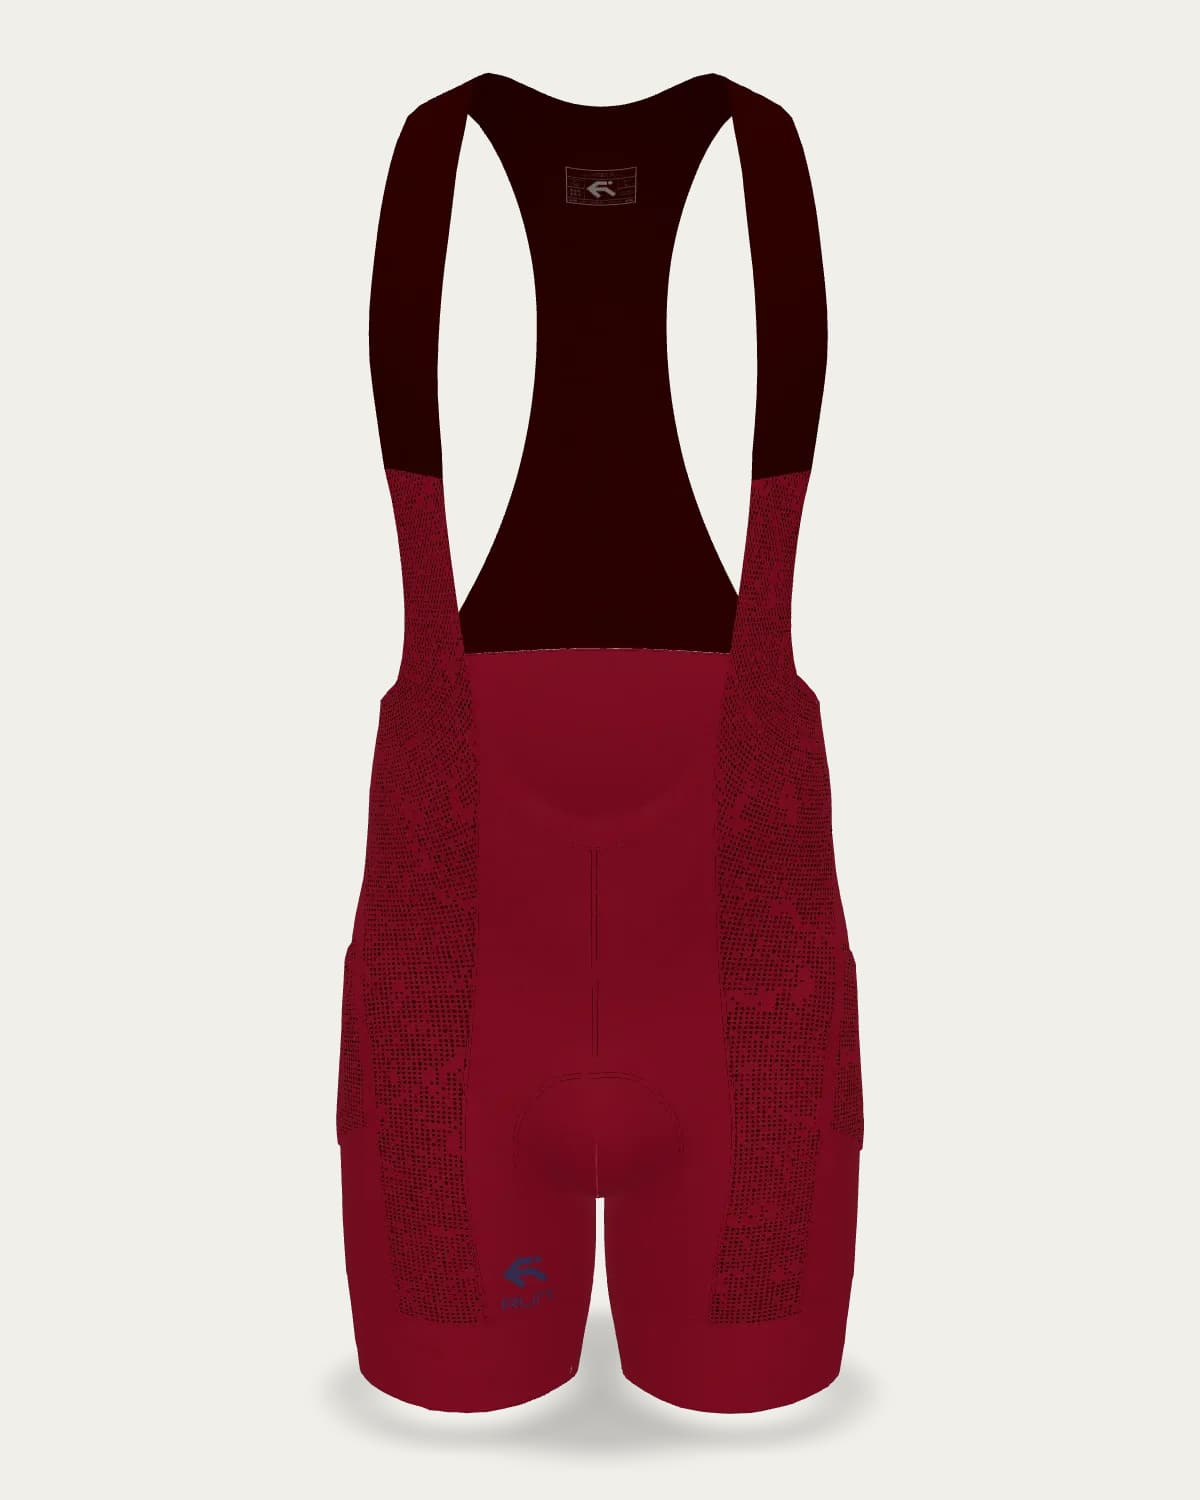
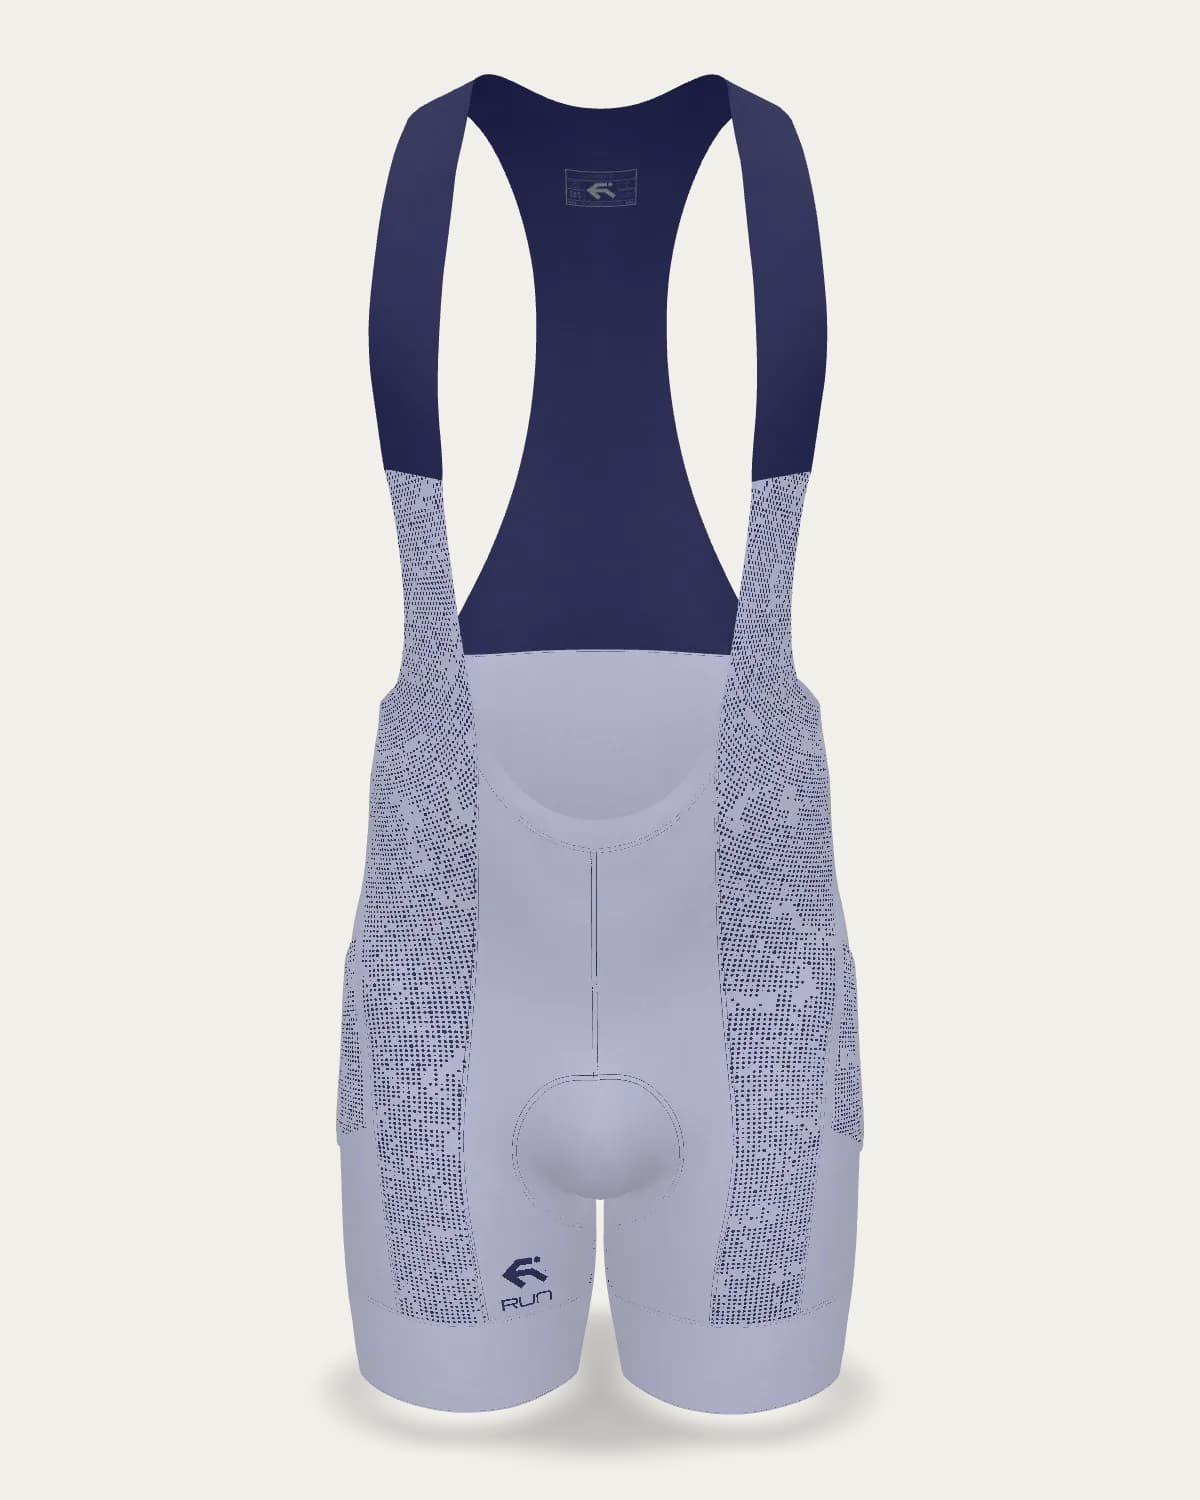
Rank 1 lands: the whole catalogue is re-exported with the diffuse setting OFF, every colourway carries its colour, and the posters, link cards and archive follow (F1-04, F2-02, F2-03, FX-01, CG-06, F1-03)
THE ANSWER. "Diffuse Color Combined on Texture" ON bakes one colour into the fabric picture
and binds that picture to every colourway with a white factor — five buttons, one wine
garment (measured on the skinsuit master: img 0 mean rgb 114,74,74, factor #ffffff x5).
OFF keeps the colour on each colourway's factor over a neutral weave (mean 227, stdev 13).
The owner re-exported all eleven FIXED GLBs that way on 2026-09-03 (17:14–19:17);
scripts/colourway-factors.mjs reads a distinct factor per colourway on every one.
investigation/CLO-EXPORT-GUIDE.md now says OFF, with the measurement.

THE MASTERS through the robot's chain (flags from robot-flags.mjs, passed as an array —
see the new trap in tools/asset-pipeline/CLAUDE.md): skinsuit 34.5 MB → 3.79 MB, bib
61.3 MB → 7.97 MB, validator 0 errors, phone 123.7 / 86.0 MB. Bib ink flags 12 → 0. The
skinsuit keeps 7 tone-on-tone flags (logo in the accent panel's colour on blush and
butter, the grey label on lime) — the design, for the owner to rule on, never the file.

THE POSTERS. Ten re-rendered from the corrected masters (output/posters/), both products'
link cards regenerated (apps/viewer/public/og/*, manifest unchanged — same names, same
sizes). scripts/poster-sheet.mjs lays a set out on the viewer's ground: the previous
skinsuit row was five wine posters that passed every per-file check.

THE ARCHIVE. The two masters under run-apparel-archive/fixed-glbs/2026-09-03-diffuse-off/
[…]

diff --git a/docs/BACKUP-RESTORE.md b/docs/BACKUP-RESTORE.md
@@ -10,7 +10,7 @@ why 5.4 GB of master files existed once, on one disk (audit CI-02 / CI-08):
 | **D1** `run-apparel-viewer-db` | all products, colourways, media rows, site settings, users, analytics events | `scripts/backup-d1.mjs` → `backups/d1/*.sql` |
 | **R2** `run-apparel-viewer-media` | every uploaded GLB model + poster image | `scripts/backup-r2.mjs` → `backups/r2/<stamp>/media/` |
 | **R2** `run-assets` | the two customer-facing PDFs the apex serves: `/catalogue` and `/profile` (71.2 MB) | `scripts/backup-r2.mjs` → `backups/r2/<stamp>/apex/` |
-| **R2** `run-apparel-archive` | the **master files**: the FIXED GLBs (five, plus three new exports added 2026-09-02 and the two X-MILO PRO masters added 2026-09-03) and ten raw CLO exports (20 objects, 5.82 GB) — the only off-machine copy | uploaded by hand with rclone (see below); byte counts verified nightly by `scripts/verify-archive.mjs` against `scripts/archive-manifest.json` |
+| **R2** `run-apparel-archive` | the **master files**: the FIXED GLBs (five, plus three new exports added 2026-09-02, the two X-MILO PRO masters added 2026-09-03, and the same two masters re-exported that evening with the diffuse setting OFF under `fixed-glbs/2026-09-03-diffuse-off/`) and ten raw CLO exports (22 objects, 5.91 GB; the nine other diffuse-off re-exports are uploading and join the manifest as they land) — the only off-machine copy | uploaded by hand with rclone (see below); byte counts verified nightly by `scripts/verify-archive.mjs` against `scripts/archive-manifest.json` |
 
 ⚠ **`run-assets` is SHARED with the separate `run-apparel` site**, which can write
 to and delete from it. It is not this project's private bucket, and that is the
@@ -248,7 +248,13 @@ canonical production-ready folder) and the ten raw CLO exports from the repo's
 gitignored 3D Products folder — 15 objects, 5.15 GB, plus three masters the owner exported on
 1–2 September (APEX "File A", WOMEN ZIP-UP VEST, THE AGGRESSOR MEN JERSEY) under
 `fixed-glbs/2026-09-02/`, and the two X-MILO PRO masters (SKIN-SUIT, BIB) the owner
-re-exported on 3 September under `fixed-glbs/2026-09-03/`: 20 objects, 5.82 GB. Standard storage rather
+re-exported on 3 September under `fixed-glbs/2026-09-03/`, and the same two masters
+re-exported that evening with "Diffuse Color Combined on Texture" OFF under
+`fixed-glbs/2026-09-03-diffuse-off/` (the export that carries a colour per colourway; the
+earlier copies stay as superseded until the owner deletes them): 22 objects, 5.91 GB. The
+nine other garments re-exported the same way (2.83 GB) are uploading at the connection's
+~300 kB/s and get a manifest row each as they land — 31 objects, 8.74 GB of the 10 GB that
+Standard storage gives free, once they are all in. Standard storage rather
 than Infrequent Access because the free 10 GB applies only to Standard, and Infrequent
 Access adds a 30-day minimum and a retrieval fee (R2 pricing page, checked 2026-09-02).
 
@@ -267,7 +273,7 @@ It exits 1 if any object is missing or the wrong size, and — deliberately — 
 listing or the manifest is empty, because a check that checked nothing must not exit
 green. Proven both ways on 2026-09-02: a manifest with one byte count off by one made it
 fail naming the file; pointed at an empty bucket it failed with "ZERO objects" and
-every file listed as missing; the real manifest passed 15 of 15 (18 of 18 after the second batch, 20 of 20 after the third).
+every file listed as missing; the real manifest passed 15 of 15 (18 of 18 after the second batch, 20 of 20 after the third, 22 of 22 after the diffuse-off masters).
 
 **Restore.** `wrangler r2 object get` handles objects under 315 MB (wrangler's
 documented ceiling). The larger ones — ARISAN BRA at 1.54 GB, Cycling-Bib at 1.31 GB,

diff --git a/tools/asset-pipeline/CLAUDE.md b/tools/asset-pipeline/CLAUDE.md
@@ -235,11 +235,8 @@ adherence to *every* rule in the file starts dropping. These twelve are the ones
 session touching `tools/asset-pipeline/` needs, so paying for them in every session was
 buying worse compliance with the rest.
 
-The intro above used to say these traps stayed in the root file "because they are cited
-from source comments and cross subsystems". That reason is preserved rather than
-discarded: each one still has a **one-line hook in the root file** naming the danger and
-pointing here, so a session that arrives from a source comment is still warned. What
-moved is the detail, not the warning.
+Each one keeps a **one-line hook in the root file**, so a session that arrives from a
+source comment is still warned; only the detail moved.
 
 ⚠ One consequence to know, because it is the cost of this split: after `/compact`, only
 the project-root `CLAUDE.md` is re-read from disk and re-injected. This file reloads the
@@ -335,7 +332,10 @@ only the root's one-liners. Open this file before changing anything here.
   `solidifyMaterials` and ships decals still on `alphaMode: BLEND`, which
   `<model-viewer>` renders see-through — the reported symptom exactly. Go through
   the parser, as `apps/shrink/container/server.ts` does. Pinned by a test in
-  `pipeline.test.ts`.
+  `pipeline.test.ts`. ⚠ And in zsh an unquoted `$FLAGS` is ONE argument: the robot's seven
+  flags arrived as one word, none matched, and the skinsuit "compressed" to 12 MB with
+  `geometry: none` (2026-09-03). Build the list as a bash array; `geometry: none` in a log
+  means a flag never arrived.
 - **A print piece is NEVER decimated — since 2026-09-02 (fix plan Rank 3).**
   `simplifyTextured` skips every primitive whose material is artwork by name or by
   UV span (colourway mappings walked, thread excluded) and reports `N print piece(s)

diff --git a/docs/RUNBOOK.md b/docs/RUNBOOK.md
@@ -1199,6 +1199,15 @@ npx --yes pnpm@10.33.0 pipeline posters output/<garment>.glb --product rxps \
 npx --yes pnpm@10.33.0 og:cards rxps
 ```
 
+Judge the set on one sheet before uploading anything — the posters are transparent, so
+opened one at a time a white garment is invisible and every per-file check passed five
+all-wine skinsuit posters on 2026-09-03:
+
+```bash
+cd tools/asset-pipeline && npx tsx scripts/poster-sheet.mjs --out ../../output/poster-sheet.jpg \
+  "rxps=../../output/posters:rxps:wine,blush,butter,lime,black"
+```
+
 The first writes `output/posters/rxps-<colour>-poster.webp` (and `.png`): front view,
 production lighting, transparent background, no caption — 1200×1500. The `--colours`
 map is each CMS colourway's slug against the CLO variant it points at (read them off
